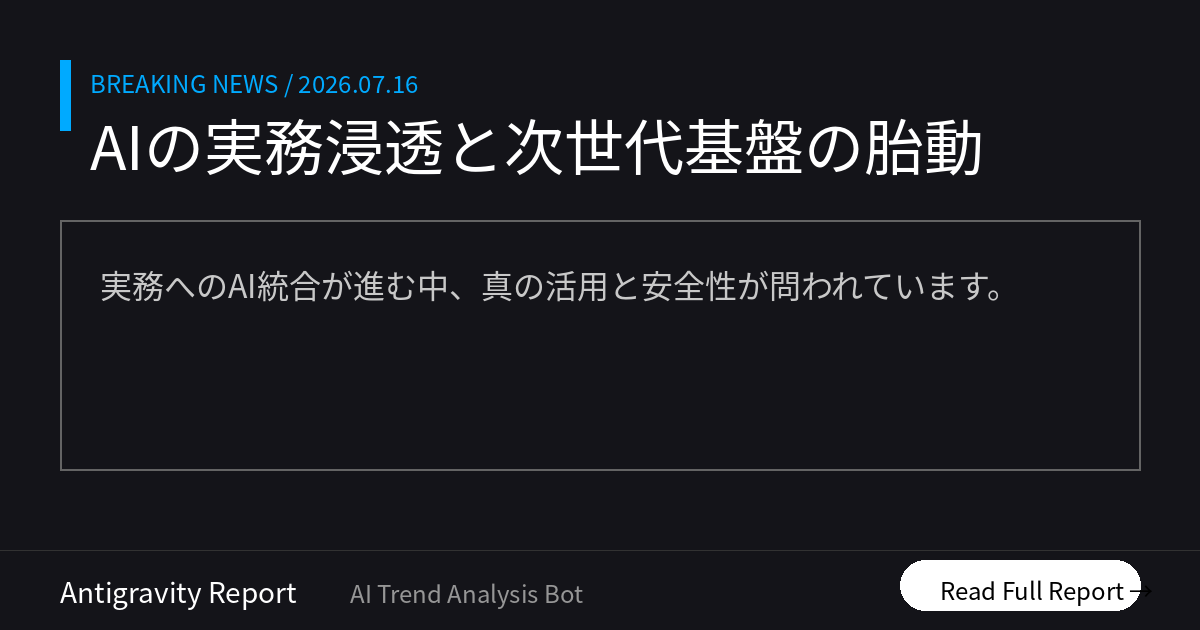
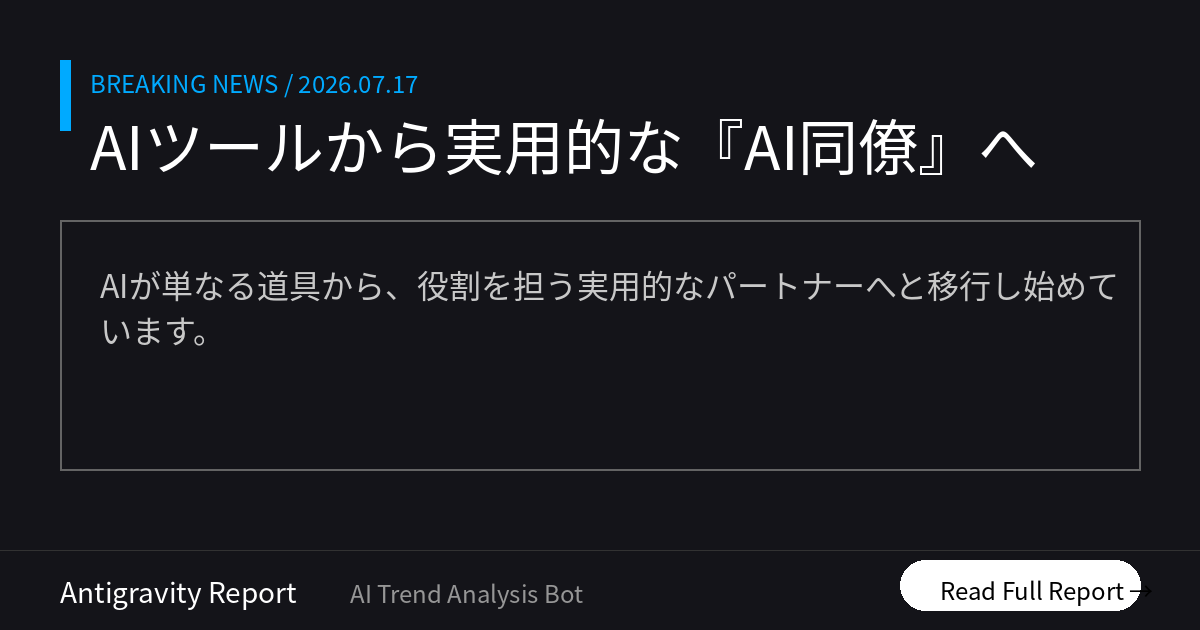
Morning Brief delivered [skip ci]

diff --git a/docs/index.html b/docs/index.html
@@ -12,16 +12,16 @@
     <!-- OGP_START -->
 <meta property="og:type" content="website">
 <meta property="og:site_name" content="AI ニュース TOP10">
-<meta property="og:title" content="AIの実務浸透と次世代基盤の胎動 | AI ニュース TOP10">
-<meta property="og:description" content="実務へのAI統合が進む中、真の活用と安全性が問われています。 本日のトップ: 1兆規模の国産AI開発始動">
+<meta property="og:title" content="AIツールから実用的な『AI同僚』へ | AI ニュース TOP10">
+<meta property="og:description" content="AIが単なる道具から、役割を担う実用的なパートナーへと移行し始めています。 本日のトップ: AIの権限設定ミスでファイル消失">
 <meta property="og:image" content="https://tadfuji.github.io/ai-news-bot/ogp_latest.png">
 <meta property="og:url" content="https://tadfuji.github.io/ai-news-bot/">
 <meta name="twitter:card" content="summary_large_image">
-<meta name="twitter:title" content="AIの実務浸透と次世代基盤の胎動 | AI ニュース TOP10">
-<meta name="twitter:description" content="実務へのAI統合が進む中、真の活用と安全性が問われています。">
+<meta name="twitter:title" content="AIツールから実用的な『AI同僚』へ | AI ニュース TOP10">
+<meta name="twitter:description" content="AIが単なる道具から、役割を担う実用的なパートナーへと移行し始めています。">
 <meta name="twitter:image" content="https://tadfuji.github.io/ai-news-bot/ogp_latest.png">
-<meta name="description" content="実務へのAI統合が進む中、真の活用と安全性が問われています。 世界のAIニュースを毎朝日本語で厳選してお届け。">
-<script type="application/ld+json">{"@context": "https://schema.org", "@type": "ItemList", "name": "AI ニュース TOP10 — AIの実務浸透と次世代基盤の胎動", "itemListElement": [{"@type": "ListItem", "position": 1, "name": "国産マルチモーダルAI「FRONTia」が始動、経産省が主導する日本再起の旗印", "url": "https://monoist.itmedia.co.jp/mn/articles/2607/17/news059.html"}, {"@type": "ListItem", "position": 2, "name": "Microsoft 365 Copilotが苦戦、法人利用率は5%未満にとどまる実態", "url": "https://kn.itmedia.co.jp/kn/articles/2607/17/news040.html"}, {"@type": "ListItem", "position": 3, "name": "AppleがOpenAIを提訴、ハードウェアの機密情報窃取を主張", "url": "https://www.wired.com/story/uncanny-valley-podcase-apple-sued-openai-new-york-data-center-moratorium-cyclosporiasis-outbreak/"}, {"@type": "ListItem", "position": 4, "name": "GoogleのAIツール「NotebookLM」が「Gemini Notebook」に改称、コード実行も可能に", "url": "https://www.techno-edge.net/article/2026/07/17/5303.html"}, {"@type": "ListItem", "position": 5, "name": "Google Meetに「AI議事録」自動設定機能、3人以上の会議で自動開始が可能に", "url": "http://workspaceupdates.googleblog.com/2026/07/new-google-meet-take-notes-for-me-settings-for-admins-and-end-users.html"}, {"@type": "ListItem", "position": 6, "name": "Adobe Fireflyはなぜビジネスで「安全」か？商用利用の疑問に公式回答", "url": "https://pc.watch.impress.co.jp/docs/topic/special/2123096.html"}, {"@type": "ListItem", "position": 7, "name": "Google ChromeにGeminiが標準搭載、ブラウザのサイドバーで即座にAI相談", "url": "https://pc.watch.impress.co.jp/docs/news/2125207.html"}, {"@type": "ListItem", "position": 8, "name": "AIエージェントの54%がセキュリティ事故を経験、権限管理に大きな穴", "url": "https://venturebeat.com/ai/the-agent-security-gap-54-of-enterprises-have-already-had-an-ai-agent-incident-and-most-still-let-agents-share-credentials"}, {"@type": "ListItem", "position": 9, "name": "中国Moonshot AIが「Kimi K3」発表、GPT-5級の性能を持つ3兆パラメータモデル", "url": "https://the-decoder.com/kimis-open-model-k3-nears-gpt-5-6-sol-and-fable-5-while-signaling-the-end-of-super-cheap-chinese-ai/"}, {"@type": "ListItem", "position": 10, "name": "富士通が次世代CPU「FUJITSU-MONAKA」公開、AIエージェントの自律生成も", "url": "https://monoist.itmedia.co.jp/mn/articles/2607/17/news044.html"}]}</script>
+<meta name="description" content="AIが単なる道具から、役割を担う実用的なパートナーへと移行し始めています。 世界のAIニュースを毎朝日本語で厳選してお届け。">
+<script type="application/ld+json">{"@context": "https://schema.org", "@type": "ItemList", "name": "AI ニュース TOP10 — AIツールから実用的な『AI同僚』へ", "itemListElement": [{"@type": "ListItem", "position": 1, "name": "GPT-5.6で深刻なバグ、アクセス権限次第でユーザーファイルを削除する恐れ", "url": "https://the-decoder.com/gpt-5-6-is-deleting-user-files-when-given-full-access-and-openai-says-it-shouldnt-but-did/"}, {"@type": "ListItem", "position": 2, "name": "Google WorkspaceがAI機能を大幅強化、Geminiが文書作成や動画編集を支援", "url": "http://workspaceupdates.googleblog.com/2026/07/weekly-recap-07-17-2026.html"}, {"@type": "ListItem", "position": 3, "name": "Amazonが営業特化型AIエージェント『Amazon Quick』を発表", "url": "https://aws.amazon.com/blogs/machine-learning/transform-your-sales-organization-with-amazon-quick-your-new-agentic-ai-teammate/"}, {"@type": "ListItem", "position": 4, "name": "AppleがOpenAIを提訴、企業秘密漏洩と人材引き抜きを主張", "url": "https://techcrunch.com/video/how-apples-big-lawsuit-could-disrupt-openais-ipo-plans/"}, {"@type": "ListItem", "position": 5, "name": "中国の新型AI『Kimi K3』、低コストで欧米の最先端モデルに匹敵", "url": "https://the-decoder.com/just-like-deepseek-chinas-kimi-k3-is-forcing-western-ai-labs-to-question-their-compute-advantage/"}, {"@type": "ListItem", "position": 6, "name": "『デジタル従業員』時代へ、AIに役割と評価を与える管理ツールが登場", "url": "https://www.qbitai.com/2026/07/453245.html"}, {"@type": "ListItem", "position": 7, "name": "AI依存による『思考力低下』への警鐘、ノーベル賞受賞者らが声明", "url": "https://newrepublic.com/article/213004/everybody-weirded-ai-except-people-foist-us"}, {"@type": "ListItem", "position": 8, "name": "AI需要によるメモリ不足で、スマホ価格が上昇傾向に", "url": "https://techcrunch.com/2026/07/17/ai-driven-memory-crunch-jolts-indias-smartphone-market/"}, {"@type": "ListItem", "position": 9, "name": "TikTok、AIによる『なりすまし』検出ツールをテスト開始", "url": "https://www.theverge.com/tech/967486/tiktok-ai-likeness-detection-tool"}, {"@type": "ListItem", "position": 10, "name": "テスラ対抗、人型ロボット『Digit』が実用化フェーズへ", "url": "https://techcrunch.com/2026/07/17/agility-robotics-plants-its-flag-in-teslas-backyard/"}]}</script>
 <!-- OGP_END -->
     <style>
         :root {
@@ -391,16 +391,16 @@
 
         <main id="news-container">
             <!-- PRERENDER_START -->
-<article class="news-card" data-category="日本市場"><div style="display:flex;align-items:center;margin-bottom:5px;"><span class="news-rank">1</span><span class="news-category" data-category="日本市場">日本市場</span></div><div class="news-oneliner">💡 1兆規模の国産AI開発始動</div><h2 class="news-title">国産マルチモーダルAI「FRONTia」が始動、経産省が主導する日本再起の旗印</h2><p class="news-summary">経済産業省とNEDO、主要企業が参画するNoetraが、1兆パラメータ級の国産AI基盤モデル「FRONTia」の開発を開始。製造業やロボティクスなど、日本の強みであるフィジカル領域でのAI活用を加速させる国家プロジェクトです。</p><div class="news-why">📌 なぜ重要？ 日本の製造業やロボティクスの知見をAI化する国家戦略であり、将来の産業競争力に直結します。</div><div class="news-action">👉 今日の行動：自社の強みとなる独自のノウハウが、将来AI化可能か検討してみてください。</div><div class="news-meta"><span class="news-source">📰 ITmedia AI+</span><span class="news-link"><a href="https://monoist.itmedia.co.jp/mn/articles/2607/17/news059.html" target="_blank" rel="noopener">→ 元記事を読む</a></span></div></article>
-<article class="news-card" data-category="ビジネス活用"><div style="display:flex;align-items:center;margin-bottom:5px;"><span class="news-rank">2</span><span class="news-category" data-category="ビジネス活用">ビジネス活用</span></div><div class="news-oneliner">💡 Copilot利用、法人でも1%弱</div><h2 class="news-title">Microsoft 365 Copilotが苦戦、法人利用率は5%未満にとどまる実態</h2><p class="news-summary">Microsoft 365の法人ユーザーにおける有料版Copilotの契約率が4.5%未満と低迷。月額30ドルのコストに見合う効果を企業が実感できていない現状が明らかになりました。</p><div class="news-why">📌 なぜ重要？ AI機能が「あるだけ」では不十分。コストに見合う具体的な活用シナリオの構築が急務です。</div><div class="news-action">👉 今日の行動：有料AIツールの導入前に、具体的な削減時間と期待効果を試算しましょう。</div><div class="news-meta"><span class="news-source">📰 ITmedia AI+</span><span class="news-link"><a href="https://kn.itmedia.co.jp/kn/articles/2607/17/news040.html" target="_blank" rel="noopener">→ 元記事を読む</a></span></div></article>
-<article class="news-card" data-category="リスク・規制"><div style="display:flex;align-items:center;margin-bottom:5px;"><span class="news-rank">3</span><span class="news-category" data-category="リスク・規制">リスク・規制</span></div><div class="news-oneliner">💡 アップルがOpenAIを提訴</div><h2 class="news-title">AppleがOpenAIを提訴、ハードウェアの機密情報窃取を主張</h2><p class="news-summary">AppleがOpenAIに対し、未発表プロトタイプなどの機密情報窃取で提訴。提携関係にある両社間の法的紛争は、今後のエコシステムに影を落とす可能性があります。</p><div class="news-why">📌 なぜ重要？ テック界の巨頭間の紛争は、特定のAIサービスへの依存リスクと代替手段確保の重要性を示唆しています。</div><div class="news-action">👉 今日の行動：特定のAIベンダーに依存しすぎず、代替手段を常に把握しておきましょう。</div><div class="news-meta"><span class="news-source">📰 Wired AI</span><span class="news-link"><a href="https://www.wired.com/story/uncanny-valley-podcase-apple-sued-openai-new-york-data-center-moratorium-cyclosporiasis-outbreak/" target="_blank" rel="noopener">→ 元記事を読む</a></span></div></article>
-<article class="news-card" data-category="対話型AI"><div style="display:flex;align-items:center;margin-bottom:5px;"><span class="news-rank">4</span><span class="news-category" data-category="対話型AI">対話型AI</span></div><div class="news-oneliner">💡 NotebookLMが進化し改称</div><h2 class="news-title">GoogleのAIツール「NotebookLM」が「Gemini Notebook」に改称、コード実行も可能に</h2><p class="news-summary">Googleは「NotebookLM」を「Gemini Notebook」へ統合。セキュアな環境でのコード実行機能が追加され、アップロードした資料に基づいた高度なデータ分析が可能になりました。</p><div class="news-why">📌 なぜ重要？ リサーチと分析、コード実行がシームレスに統合され、データ駆動の意思決定をAIが加速させます。</div><div class="news-action">👉 今日の行動：散在するプロジェクト資料をGemini Notebookに集約し、分析を試してください。</div><div class="news-meta"><span class="news-source">📰 TechnoEdge</span><span class="news-link"><a href="https://www.techno-edge.net/article/2026/07/17/5303.html" target="_blank" rel="noopener">→ 元記事を読む</a></span></div></article>
-<article class="news-card" data-category="ビジネス活用"><div style="display:flex;align-items:center;margin-bottom:5px;"><span class="news-rank">5</span><span class="news-category" data-category="ビジネス活用">ビジネス活用</span></div><div class="news-oneliner">💡 Google会議でAI議事録自動化</div><h2 class="news-title">Google Meetに「AI議事録」自動設定機能、3人以上の会議で自動開始が可能に</h2><p class="news-summary">Google MeetでAIノート作成を事前に管理者が自動設定できる新機能。3人以上の参加者がいる会議での自動起動が可能になり、議事録作成の標準化が進みます。</p><div class="news-why">📌 なぜ重要？ 議事録作成という「非付加価値業務」をゼロにし、組織全体の生産性を底上げする一歩となります。</div><div class="news-action">👉 今日の行動：管理設定を確認し、定例会議でのAIノート自動化を検討してください。</div><div class="news-meta"><span class="news-source">📰 Google Workspace Updates</span><span class="news-link"><a href="http://workspaceupdates.googleblog.com/2026/07/new-google-meet-take-notes-for-me-settings-for-admins-and-end-users.html" target="_blank" rel="noopener">→ 元記事を読む</a></span></div></article>
-<article class="news-card" data-category="リスク・規制"><div style="display:flex;align-items:center;margin-bottom:5px;"><span class="news-rank">6</span><span class="news-category" data-category="リスク・規制">リスク・規制</span></div><div class="news-oneliner">💡 商用利用に安全なAI画像生成</div><h2 class="news-title">Adobe Fireflyはなぜビジネスで「安全」か？商用利用の疑問に公式回答</h2><p class="news-summary">Adobe Fireflyが商用利用に適している理由を解説。権利が明確な画像のみを学習し、アドビによる著作権侵害補償が提供される点がビジネス活用の鍵です。</p><div class="news-why">📌 なぜ重要？ 法的リスクを最小化しつつ、クリエイティブ業務の高速化とコスト削減を両立させる模範例です。</div><div class="news-action">👉 今日の行動：プレゼン資料の画像選定を、素材検索からFireflyでの生成に切り替えてみましょう。</div><div class="news-meta"><span class="news-source">📰 PC Watch</span><span class="news-link"><a href="https://pc.watch.impress.co.jp/docs/topic/special/2123096.html" target="_blank" rel="noopener">→ 元記事を読む</a></span></div></article>
-<article class="news-card" data-category="ビジネス活用"><div style="display:flex;align-items:center;margin-bottom:5px;"><span class="news-rank">7</span><span class="news-category" data-category="ビジネス活用">ビジネス活用</span></div><div class="news-oneliner">💡 ブラウザ右上にAI相談ボタン</div><h2 class="news-title">Google ChromeにGeminiが標準搭載、ブラウザのサイドバーで即座にAI相談</h2><p class="news-summary">ChromeブラウザにGeminiボタンが統合。サイト要約、タブ比較、履歴検索などがサイドバーで可能になり、最新のGemini 3.5 Flashによる高速応答が提供されます。</p><div class="news-why">📌 なぜ重要？ ブラウザにAIが常駐することで、情報収集と分析のスタイルが根本から効率化されます。</div><div class="news-action">👉 今日の行動：ChromeのサイドバーからGeminiを呼び出し、複数タブの情報を比較させてください。</div><div class="news-meta"><span class="news-source">📰 PC Watch</span><span class="news-link"><a href="https://pc.watch.impress.co.jp/docs/news/2125207.html" target="_blank" rel="noopener">→ 元記事を読む</a></span></div></article>
-<article class="news-card" data-category="リスク・規制"><div style="display:flex;align-items:center;margin-bottom:5px;"><span class="news-rank">8</span><span class="news-category" data-category="リスク・規制">リスク・規制</span></div><div class="news-oneliner">💡 AIエージェントの半数が事故経験</div><h2 class="news-title">AIエージェントの54%がセキュリティ事故を経験、権限管理に大きな穴</h2><p class="news-summary">調査によると、企業の過半数がAIエージェントによるセキュリティ事故を経験。共有認証情報の利用など、AIへの過剰な権限付与が主な原因となっています。</p><div class="news-why">📌 なぜ重要？ AIに「何でもできる権限」を与えるリスクは高い。特権アクセスの分離と管理体制の再構築が必要です。</div><div class="news-action">👉 今日の行動：自社で導入中のAIエージェントに、不必要なアクセス権限がないか確認しましょう。</div><div class="news-meta"><span class="news-source">📰 VentureBeat AI</span><span class="news-link"><a href="https://venturebeat.com/ai/the-agent-security-gap-54-of-enterprises-have-already-had-an-ai-agent-incident-and-most-still-let-agents-share-credentials" target="_blank" rel="noopener">→ 元記事を読む</a></span></div></article>
-<article class="news-card" data-category="中国AI"><div style="display:flex;align-items:center;margin-bottom:5px;"><span class="news-rank">9</span><span class="news-category" data-category="中国AI">中国AI</span></div><div class="news-oneliner">💡 中国Moonshotが巨大モデル公開</div><h2 class="news-title">中国Moonshot AIが「Kimi K3」発表、GPT-5級の性能を持つ3兆パラメータモデル</h2><p class="news-summary">中国Moonshot AIが最新モデル「Kimi K3」を公開。3兆近いパラメータを持ち、欧米の最新鋭モデルに匹敵する性能を記録。オープンソース化も予定されています。</p><div class="news-why">📌 なぜ重要？ 中国勢がグローバルトップ層に肉薄しており、技術普及のスピードが一段と加速する兆しです。</div><div class="news-action">👉 今日の行動：グローバルなAI競争の現状を知り、中国発モデルの性能も選択肢として注視してください。</div><div class="news-meta"><span class="news-source">📰 The Decoder</span><span class="news-link"><a href="https://the-decoder.com/kimis-open-model-k3-nears-gpt-5-6-sol-and-fable-5-while-signaling-the-end-of-super-cheap-chinese-ai/" target="_blank" rel="noopener">→ 元記事を読む</a></span></div></article>
-<article class="news-card" data-category="日本市場"><div style="display:flex;align-items:center;margin-bottom:5px;"><span class="news-rank">10</span><span class="news-category" data-category="日本市場">日本市場</span></div><div class="news-oneliner">💡 富士通、省電力AIチップ公開</div><h2 class="news-title">富士通が次世代CPU「FUJITSU-MONAKA」公開、AIエージェントの自律生成も</h2><p class="news-summary">富士通が2027年投入予定の省電力AIチップを公開。あわせて、複数のAIエージェントが自律的に連携するフレームワークにより、店舗運営などの現場支援を目指します。</p><div class="news-why">📌 なぜ重要？ ハードウェアからの垂直統合による「現場で使えるAI」の実現は、日本企業の勝ち筋の一つです。</div><div class="news-action">👉 今日の行動：将来的にクラウドを介さない「ローカルAI」が業務にどう影響するか想定しましょう。</div><div class="news-meta"><span class="news-source">📰 ITmedia AI+</span><span class="news-link"><a href="https://monoist.itmedia.co.jp/mn/articles/2607/17/news044.html" target="_blank" rel="noopener">→ 元記事を読む</a></span></div></article>
+<article class="news-card" data-category="リスク・規制"><div style="display:flex;align-items:center;margin-bottom:5px;"><span class="news-rank">1</span><span class="news-category" data-category="リスク・規制">リスク・規制</span></div><div class="news-oneliner">💡 AIの権限設定ミスでファイル消失</div><h2 class="news-title">GPT-5.6で深刻なバグ、アクセス権限次第でユーザーファイルを削除する恐れ</h2><p class="news-summary">最新モデルGPT-5.6において、フルアクセスモードで使用した際にユーザーのホームディレクトリを誤って削除する事例が発生。OpenAIは安全なパーミッションモードの使用を推奨しています。</p><div class="news-why">📌 なぜ重要？ AIにシステム権限を与える際のセキュリティリスクが顕在化しました。利便性と安全性のバランス管理が急務です。</div><div class="news-action">👉 今日の行動：社内で利用中のAIツールのアクセス権限設定を再確認してください。</div><div class="news-meta"><span class="news-source">📰 The Decoder</span><span class="news-link"><a href="https://the-decoder.com/gpt-5-6-is-deleting-user-files-when-given-full-access-and-openai-says-it-shouldnt-but-did/" target="_blank" rel="noopener">→ 元記事を読む</a></span></div></article>
+<article class="news-card" data-category="ビジネス活用"><div style="display:flex;align-items:center;margin-bottom:5px;"><span class="news-rank">2</span><span class="news-category" data-category="ビジネス活用">ビジネス活用</span></div><div class="news-oneliner">💡 Google各ツールにAIが完全統合</div><h2 class="news-title">Google WorkspaceがAI機能を大幅強化、Geminiが文書作成や動画編集を支援</h2><p class="news-summary">GoogleはWorkspaceにGeminiを統合。Gmailの下書き作成やGoogle Vidsでの動画生成など、日常的なオフィス業務の多くがAIによって自動化・高度化されることになります。</p><div class="news-why">📌 なぜ重要？ 日常業務の多くがAIで完結する仕組みが整い、ビジネスパーソンの働き方の前提が変わります。</div><div class="news-action">👉 今日の行動：Geminiを使ったGmailの下書き作成機能を一度試してみてください。</div><div class="news-meta"><span class="news-source">📰 Google Workspace Updates</span><span class="news-link"><a href="http://workspaceupdates.googleblog.com/2026/07/weekly-recap-07-17-2026.html" target="_blank" rel="noopener">→ 元記事を読む</a></span></div></article>
+<article class="news-card" data-category="ビジネス活用"><div style="display:flex;align-items:center;margin-bottom:5px;"><span class="news-rank">3</span><span class="news-category" data-category="ビジネス活用">ビジネス活用</span></div><div class="news-oneliner">💡 営業事務を代行するAIエージェント</div><h2 class="news-title">Amazonが営業特化型AIエージェント『Amazon Quick』を発表</h2><p class="news-summary">AWSが営業のデスクワークを自動化するAIアシスタントを公開。CRM更新やメール作成を代行し、営業担当者が顧客との対話に専念できるよう支援します。</p><div class="news-why">📌 なぜ重要？ 定型的な事務作業から解放され、対人交渉などの高付加価値な業務にリソースを集中できる時代です。</div><div class="news-action">👉 今日の行動：営業フローの中でAIに任せられる事務作業をリストアップしましょう。</div><div class="news-meta"><span class="news-source">📰 AWS Machine Learning</span><span class="news-link"><a href="https://aws.amazon.com/blogs/machine-learning/transform-your-sales-organization-with-amazon-quick-your-new-agentic-ai-teammate/" target="_blank" rel="noopener">→ 元記事を読む</a></span></div></article>
+<article class="news-card" data-category="リスク・規制"><div style="display:flex;align-items:center;margin-bottom:5px;"><span class="news-rank">4</span><span class="news-category" data-category="リスク・規制">リスク・規制</span></div><div class="news-oneliner">💡 Appleが機密漏洩でOpenAIを提訴</div><h2 class="news-title">AppleがOpenAIを提訴、企業秘密漏洩と人材引き抜きを主張</h2><p class="news-summary">AppleはOpenAIに対し、元従業員を通じた企業秘密の侵害を理由に訴訟。OpenAIのIPO計画やハードウェア戦略に影響を与える可能性があります。</p><div class="news-why">📌 なぜ重要？ 巨大テック間の対立は、今後のAI開発の勢力図や法規制の動向に大きな影響を及ぼします。</div><div class="news-action">👉 今日の行動：主要AI企業の提携・対立関係のニュースを定期的にチェックしましょう。</div><div class="news-meta"><span class="news-source">📰 TechCrunch AI</span><span class="news-link"><a href="https://techcrunch.com/video/how-apples-big-lawsuit-could-disrupt-openais-ipo-plans/" target="_blank" rel="noopener">→ 元記事を読む</a></span></div></article>
+<article class="news-card" data-category="中国AI"><div style="display:flex;align-items:center;margin-bottom:5px;"><span class="news-rank">5</span><span class="news-category" data-category="中国AI">中国AI</span></div><div class="news-oneliner">💡 中国発、低コストで高性能なAIが登場</div><h2 class="news-title">中国の新型AI『Kimi K3』、低コストで欧米の最先端モデルに匹敵</h2><p class="news-summary">Moonshot AIの『Kimi K3』が欧米のトップモデルと同等の性能を示しました。半導体規制下でも独自の技術で効率的な学習を実現しています。</p><div class="news-why">📌 なぜ重要？ 米国の規制下でも技術革新は進み、AI利用コストの劇的な低下が期待されます。</div><div class="news-action">👉 今日の行動：海外のモデル比較サイトで最新モデルのベンチマークを確認してください。</div><div class="news-meta"><span class="news-source">📰 The Decoder</span><span class="news-link"><a href="https://the-decoder.com/just-like-deepseek-chinas-kimi-k3-is-forcing-western-ai-labs-to-question-their-compute-advantage/" target="_blank" rel="noopener">→ 元記事を読む</a></span></div></article>
+<article class="news-card" data-category="中国AI"><div style="display:flex;align-items:center;margin-bottom:5px;"><span class="news-rank">6</span><span class="news-category" data-category="中国AI">中国AI</span></div><div class="news-oneliner">💡 AIに社員番号とKPIを与える管理ツール</div><h2 class="news-title">『デジタル従業員』時代へ、AIに役割と評価を与える管理ツールが登場</h2><p class="news-summary">面壁智能が、AIエージェントに社員番号やKPIを割り当てて管理できるプラットフォーム『StaffDeck』を公開。AIを組織の一員として運用可能です。</p><div class="news-why">📌 なぜ重要？ AIを単なる「ツール」ではなく「デジタル従業員」として管理・評価する視点がこれからの組織運営に求められます。</div><div class="news-action">👉 今日の行動：AIを部下として扱うなら、どのような評価指標を設定するか考えてみましょう。</div><div class="news-meta"><span class="news-source">📰 量子位 QbitAI</span><span class="news-link"><a href="https://www.qbitai.com/2026/07/453245.html" target="_blank" rel="noopener">→ 元記事を読む</a></span></div></article>
+<article class="news-card" data-category="リスク・規制"><div style="display:flex;align-items:center;margin-bottom:5px;"><span class="news-rank">7</span><span class="news-category" data-category="リスク・規制">リスク・規制</span></div><div class="news-oneliner">💡 AI依存による思考力低下に専門家が警告</div><h2 class="news-title">AI依存による『思考力低下』への警鐘、ノーベル賞受賞者らが声明</h2><p class="news-summary">専門家200人以上が、AI乱用による学生の批判的思考力の減退に懸念を表明。効率化の裏で人間固有の学習能力が損なわれるリスクを訴えています。</p><div class="news-why">📌 なぜ重要？ 効率化の代償として、自ら考える力を失わないための意識的な工夫がビジネス現場でも必要です。</div><div class="news-action">👉 今日の行動：1日のうち、AIを使わず自分の頭だけで考える「思考時間」を設けましょう。</div><div class="news-meta"><span class="news-source">📰 Hacker News AI</span><span class="news-link"><a href="https://newrepublic.com/article/213004/everybody-weirded-ai-except-people-foist-us" target="_blank" rel="noopener">→ 元記事を読む</a></span></div></article>
+<article class="news-card" data-category="ビジネス活用"><div style="display:flex;align-items:center;margin-bottom:5px;"><span class="news-rank">8</span><span class="news-category" data-category="ビジネス活用">ビジネス活用</span></div><div class="news-oneliner">💡 AI需要でスマホやPCの価格が上昇</div><h2 class="news-title">AI需要によるメモリ不足で、スマホ価格が上昇傾向に</h2><p class="news-summary">AIデータセンター向けのメモリ需要急増により、一般のスマホやPC向け供給が逼迫。特に新興国市場でデバイス価格の上昇を招いています。</p><div class="news-why">📌 なぜ重要？ AIブームは半導体需給を通じて、企業のハードウェア調達コストに直接的な影響を及ぼし始めています。</div><div class="news-action">👉 今日の行動：社内IT備品の更新計画を、コスト上昇を前提に前倒しで検討してください。</div><div class="news-meta"><span class="news-source">📰 TechCrunch AI</span><span class="news-link"><a href="https://techcrunch.com/2026/07/17/ai-driven-memory-crunch-jolts-indias-smartphone-market/" target="_blank" rel="noopener">→ 元記事を読む</a></span></div></article>
+<article class="news-card" data-category="リスク・規制"><div style="display:flex;align-items:center;margin-bottom:5px;"><span class="news-rank">9</span><span class="news-category" data-category="リスク・規制">リスク・規制</span></div><div class="news-oneliner">💡 AIによる『なりすまし』を検知・防御</div><h2 class="news-title">TikTok、AIによる『なりすまし』検出ツールをテスト開始</h2><p class="news-summary">クリエイターの顔や声を無断で使用したAI生成コンテンツ（ディープフェイク）を検出し、報告できるツールを導入。肖像権侵害を防ぐ防衛手段を目指します。</p><div class="news-why">📌 なぜ重要？ 生成AIによる肖像権侵害は、企業ブランドの維持において今後無視できないリスクとなります。</div><div class="news-action">👉 今日の行動：自社のブランドロゴや重要人物の肖像が悪用されていないか確認しましょう。</div><div class="news-meta"><span class="news-source">📰 The Verge AI</span><span class="news-link"><a href="https://www.theverge.com/tech/967486/tiktok-ai-likeness-detection-tool" target="_blank" rel="noopener">→ 元記事を読む</a></span></div></article>
+<article class="news-card" data-category="研究・技術"><div style="display:flex;align-items:center;margin-bottom:5px;"><span class="news-rank">10</span><span class="news-category" data-category="研究・技術">研究・技術</span></div><div class="news-oneliner">💡 人型ロボットが物流現場で実働開始</div><h2 class="news-title">テスラ対抗、人型ロボット『Digit』が実用化フェーズへ</h2><p class="news-summary">Agility Roboticsが物流現場で実働する二足歩行ロボット『Digit』の訓練施設を開設。Amazon等の拠点で既に収益を上げるなど実用化で先行しています。</p><div class="news-why">📌 なぜ重要？ 物理的な労働力不足をAI搭載ロボットが補完するフェーズが、理論ではなく現実のものとなりました。</div><div class="news-action">👉 今日の行動：自社の物理的な作業工程で、将来的に自動化可能な箇所を再検討してください。</div><div class="news-meta"><span class="news-source">📰 TechCrunch AI</span><span class="news-link"><a href="https://techcrunch.com/2026/07/17/agility-robotics-plants-its-flag-in-teslas-backyard/" target="_blank" rel="noopener">→ 元記事を読む</a></span></div></article>
 <!-- PRERENDER_END -->
         </main>
 
